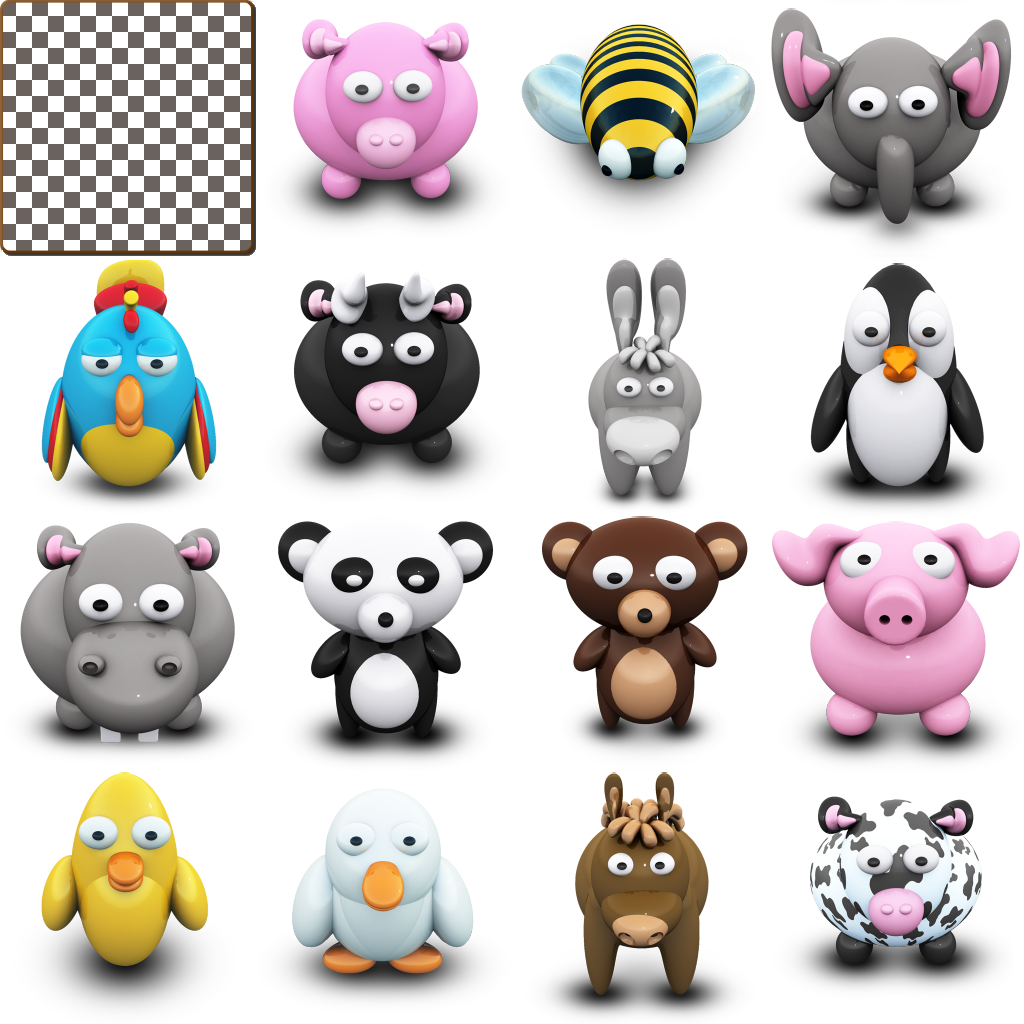
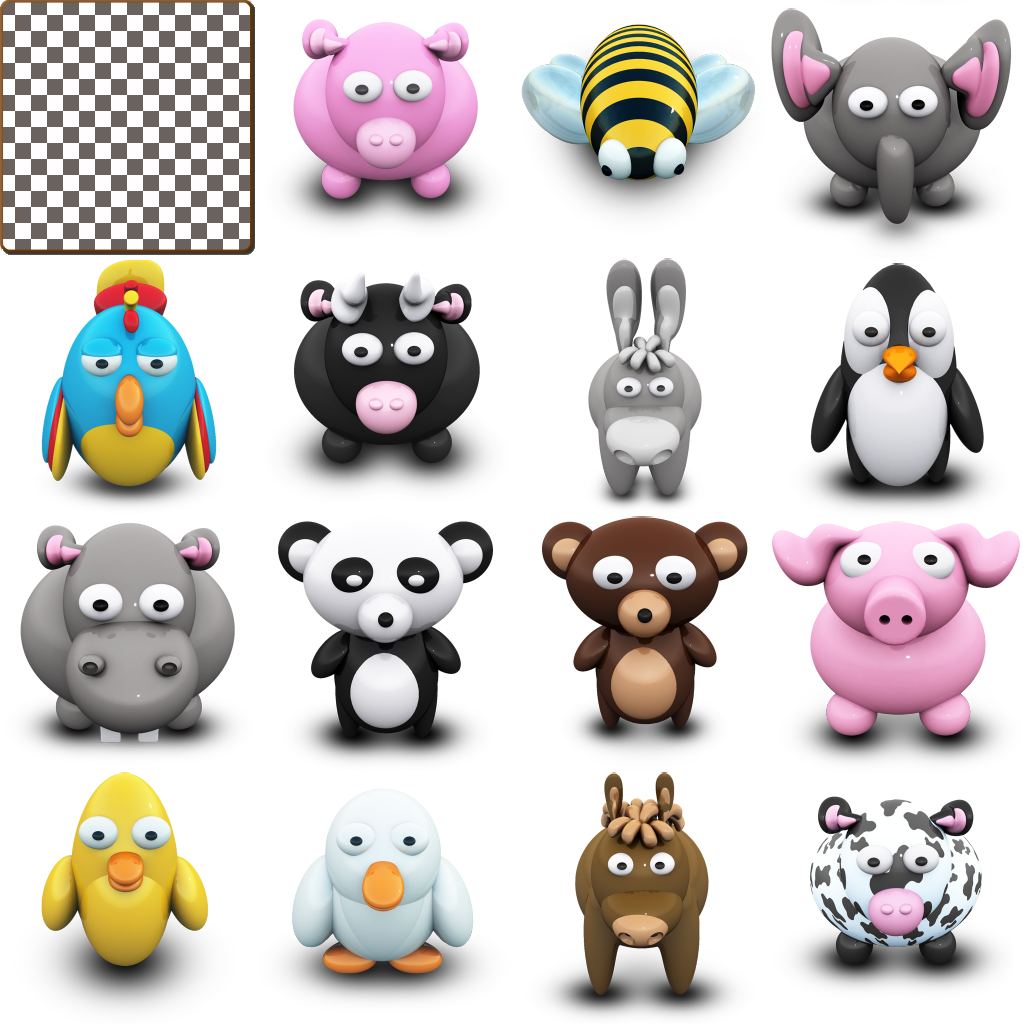
multilevel extra background ans high scores

Changed region(s): [[0.0, 0.0, 0.25, 0.25]]

diff --git a/src/scripts/croupier.ts b/src/scripts/croupier.ts
@@ -2,23 +2,31 @@ import {Card} from './card';
 // @ts-ignore
 import * as Handlebars from 'handlebars';
 
-interface matrix {
+interface Level {
   rows: number;
   cols: number;
+  score: number;
 }
 
-interface cardConfig {
-  levels: matrix[];
+interface CardConfig {
+  levels: Level[];
 }
 
 export class Croupier {
-  cardsConfig: cardConfig; // later specify this in
+  cardsConfig: CardConfig; // later specify this in
   card1Picked: Card;
   card2Picked: Card;
   totalCards: number;
   cards: Card[];
   maxScore: number;
-  sqrtSpace = 2700;
+  sqrtSpace = 2700; // area space in vmin where the cards can be placed
+  levelElements: NodeListOf<HTMLInputElement>;
+  backgroundTypeElements:  NodeListOf<HTMLInputElement>;
+  scoreElement: Element;
+  boardElement: HTMLElement;
+  currentLevel: number;
+  currentGame: number;
+  totalScore: number;
 
   /**
    * Shuffles array in place
@@ -32,7 +40,41 @@ export class Croupier {
     return cards;
   }
 
+  /**
+   * get score
+   * @param {Level} item
+   * @returns {number}
+   * @example usage tot sum up all values: levels.map(amount).reduce(sum);
+   */
+  private static amount(item: Level): number{
+    return item.score;
+  }
+
+  /**
+   * sum two values
+   * @param {number} prev
+   * @param {number} next
+   * @returns {number}
+   */
+  private static sum(prev:number, next:number): number{
+    return prev + next;
+  }
+
+  /**
+   * returns a new card with initial properties
+   * @param faceID
+   */
+  private static getNewCard(faceID:number): Card {
+    return new Card(faceID);
+  }
+
+
   constructor() {
+    this.levelElements = document.querySelectorAll('.levels input');
+    this.backgroundTypeElements = document.querySelectorAll('.type input');
+    this.scoreElement = document.getElementsByClassName('score')[0];
+    this.boardElement = document.getElementById('board');
+
     this.init();
   };
 
@@ -42,37 +84,50 @@ export class Croupier {
   private init(): void {
     this.cardsConfig = {
       levels: [
-        {rows: 2, cols: 2},
-        {rows: 2, cols: 3},
-        {rows: 3, cols: 4},
-        {rows: 4, cols: 4},
-        {rows: 4, cols: 5},
-        {rows: 4, cols: 6},
-        {rows: 5, cols: 6},
+        {rows: 2, cols: 2, score: 0},
+        {rows: 2, cols: 3, score: 0},
+        {rows: 3, cols: 4, score: 0},
+        {rows: 4, cols: 4, score: 0},
+        {rows: 4, cols: 5, score: 0},
+        {rows: 4, cols: 6, score: 0},
+        {rows: 5, cols: 6, score: 0},
       ]
     };
 
-    document.querySelectorAll('.levels input').forEach(el => {
+    this.levelElements.forEach(el => {
       el.addEventListener('change', evt => {
         const level = (<HTMLInputElement>evt.target).value;
         this.startGame(Number(level));
       })
     });
 
-    this.resetGame();
+    this.backgroundTypeElements.forEach(el => {
+      el.addEventListener('change', evt => {
+        const type = (<HTMLInputElement>evt.target).value;
+        const action = type === 'faces' ? 'add' : 'remove';
+        this.boardElement.classList[action]('faces');
+      })
+    });
+
+    this.currentLevel = 0;
   };
 
   /**
    * reset all to start position
+   * @param {number} gameIndex
    */
-  private resetGame(): void{
+  private resetGame(gameIndex: number): void{
     this.card1Picked = null;
     this.card2Picked = null;
     this.totalCards = 0;
     this.cards = [];
-    this.maxScore = 500;
+    this.currentGame = gameIndex;
     const board   = document.getElementById("board");
+    document.getElementsByClassName('score')[0].classList.remove('show');
+
     board.innerHTML = '';
+
+    this.setLevels(gameIndex);
   }
 
   /**
@@ -92,14 +147,6 @@ export class Croupier {
     this.cards.forEach((card, index) => {
       this.createCardElement(card, index);
     });
-  }
-
-  /**
-   * returns a new card with initial properties
-   * @param faceID
-   */
-  private static getNewCard(faceID:number): Card {
-    return new Card(faceID);
   }
 
   /**
@@ -129,6 +176,17 @@ export class Croupier {
 
     // add element reference to the card
     card.element = document.getElementById(`card-${index}`);
+  }
+
+  /**
+   * reset the input settings
+   * @param {Number} gameIndex
+   */
+  private setLevels(gameIndex: Number){
+    this.levelElements.forEach((el, index) => {
+      el.checked =  index === gameIndex;
+      el.disabled = index > this.currentLevel;
+    });
   }
 
   /**
@@ -177,9 +235,7 @@ export class Croupier {
     this.card2Picked.setMatched();
 
     if(this.checkAllMatched()){
-      console.log('hooraa');
-      document.getElementsByClassName('score')[0].classList.add('show');
-      document.getElementById('total-score').innerText = this.maxScore.toString();
+      this.finalizedGame();
     }
   }
 
@@ -192,22 +248,45 @@ export class Croupier {
     });
   }
 
+  private finalizedGame(){
+    console.log('hooraa');
+    // store score
+    this.cardsConfig.levels[this.currentGame].score = this.maxScore;
+    const totalScore = this.cardsConfig.levels.map(Croupier.amount).reduce(Croupier.sum);
+
+    // display score
+    document.getElementsByClassName('score')[0].classList.add('show');
+    document.getElementById('total-score').innerText = totalScore.toString();
+
+    // if current game is the highest then set level 1 higher
+    if(this.currentGame === this.currentLevel){
+      this.currentLevel++;
+    }
+
+    // enable the levels
+    this.setLevels(this.currentGame);
+  }
+
   /**
    * start the game with a specific level -  more levels later default is 6
-   * @param level
+   * @param levelIndex
    */
-  public startGame(level:number = 6): void {
+  public startGame(levelIndex:number = 0): void {
     let root = document.documentElement;
+    let level = this.cardsConfig.levels[levelIndex];
 
-    console.log(`starting! level ${level}` );
-    const totalCards = this.cardsConfig.levels[level].rows * this.cardsConfig.levels[level].cols;
+    console.log(`starting! level ${levelIndex}`,  this.cardsConfig.levels);
+
+    const totalCards = level.rows * level.cols;
     const sqrt = Math.sqrt(this.sqrtSpace / totalCards);
 
     root.style.setProperty('--square-root', `${sqrt}vmin`);
-    root.style.setProperty('--repeat-columns', this.cardsConfig.levels[level].cols.toString());
-    root.style.setProperty('--repeat-rows', this.cardsConfig.levels[level].rows.toString());
+    root.style.setProperty('--repeat-columns', level.cols.toString());
+    root.style.setProperty('--repeat-rows', level.rows.toString());
 
-    this.resetGame();
+    this.maxScore = 50 * totalCards;
+
+    this.resetGame(levelIndex);
     this.drawCards(totalCards);
   };
 

diff --git a/src/index.html b/src/index.html
@@ -19,6 +19,10 @@
       <li><label><input type="radio" name="level" value="5"></label></li>
       <li><label><input type="radio" name="level" value="6"></label></li>
     </ul>
+    <ul class="type">
+      <li><label><input type="radio" name="type" value="animals"></label></li>
+      <li><label><input type="radio" name="type" value="faces"></label></li>
+    </ul>
   </div>
   <div class="score"><span class="comic" data-content="Congratulations your score is:">Congratulations your score is: <span id="total-score"></span></span></div>
 

diff --git a/src/styles/board.scss b/src/styles/board.scss
@@ -47,14 +47,7 @@
   padding: 0;
 }
 
-// set aspect ration from container
-// example
-//  <div style="--aspect-ratio: 3/1;">3/1</div>
-//  <div style="--aspect-ratio: 1/1;">1/1</div>
-//[style^='--aspect-ratio']::before {
-//  content: "";
-//  display: inline-block;
-//  width: 1px;
-//  height: 0;
-//  padding-bottom: calc(100% / (var(--aspect-ratio)));
-//}
+.type {
+  list-style: none;
+  padding: 0;
+}

diff --git a/src/styles/scaffolding.scss b/src/styles/scaffolding.scss
@@ -48,5 +48,19 @@ body {
 
   &.show {
     display: flex;
+    animation: zoominoutsinglefeatured 1s forwards;
   }
 }
+
+@keyframes zoominoutsinglefeatured {
+  0% {
+    transform: scale(1,1);
+  }
+  50% {
+    transform: scale(1.2,1.2);
+  }
+  100% {
+    transform: scale(1,1);
+  }
+}
+

diff --git a/src/scripts/index.ts b/src/scripts/index.ts
@@ -5,6 +5,6 @@ import '../../favicon.ico';
 (function(){
   document.addEventListener('DOMContentLoaded', () => {
     const croupier = new Croupier();
-    croupier.startGame(6);
+    croupier.startGame();
   });
 })();

diff --git a/src/styles/index.scss b/src/styles/index.scss
@@ -5,5 +5,3 @@
 @import "card";
 @import "board";
 @import "text";
-
-
